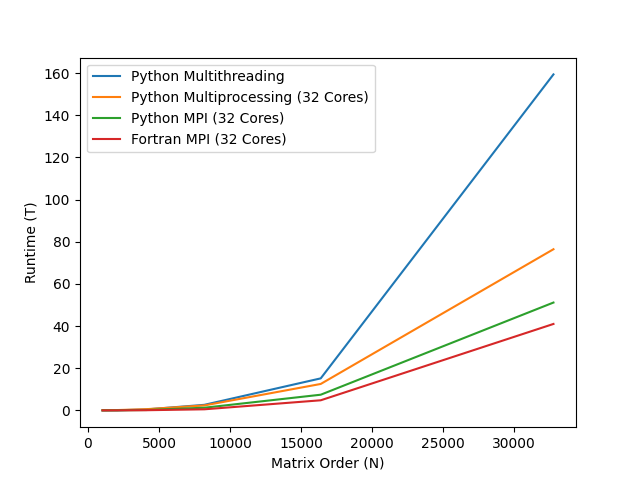
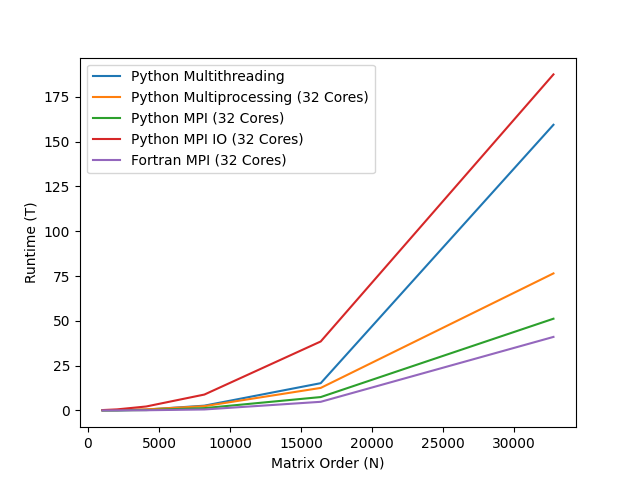
Updating README

diff --git a/TesterFiles/Libraries/CompareRuntimes.py b/TesterFiles/Libraries/CompareRuntimes.py
@@ -21,16 +21,12 @@ def read_fortran_times(path_name):
 
 
 def gen_plot(df,p):
-    #df = df.T
-    print(df.columns)
     df.plot()
     plt.xlabel("Matrix Order (N)")
     plt.ylabel("Runtime (T)")
     plt.legend()
-    #plt.gca().set_aspect('equal')
     p = Path.cwd()
-    #plt.show()
-    #plt.savefig(f"{p.parent.parent}\Figures\Libraries\Comparing_Parallel_Runtimes.png")
+    plt.savefig(f"{p.parent.parent}\Figures\Libraries\Comparing_Parallel_Runtimes.png")
 
 
 def calc_FLOPS(df):
@@ -51,12 +47,6 @@ def main():
     no_lock_df.columns = ["Python Multithreading"]
     print(f"no_lock_df: \n{no_lock_df}")
 
-    print("\n\n")
-    mpi_io_df = read_python_times(f"{p.parent}\MPI_IO/Time_dfs/total_df.pkl")
-    #mpi_io_df = mpi_io_df.drop(["Python dgemm (No Lock)","Numpy MatMul (No Lock)"],axis=1)
-    #mpi_io_df.columns = ["Python Multithreading"]
-    print(f"mpi_io_df: \n{mpi_io_df}")
-
     multiprocessing_df = read_python_times(f"{p.parent}\Multiprocessing/Lapack/Time_dfs/total_df.pkl")
     multiprocessing_df = multiprocessing_df.drop([1,2,4,8,16],axis=1)
     print(multiprocessing_df.columns)
@@ -69,6 +59,13 @@ def main():
     mpi_df.columns = ["Python MPI (32 Cores)"]
     print(f"mpi_df: \n{mpi_df}")
     total_df = total_df.join(mpi_df)
+
+    print("\n\n")
+    mpi_io_df = read_python_times(f"{p.parent}\MPI_IO/Time_dfs/total_df.pkl")
+    mpi_io_df = mpi_io_df.drop([1,2,4,8,16],axis=1)
+    mpi_io_df.columns = ["Python MPI IO (32 Cores)"]
+    print(f"mpi_io_df: \n{mpi_io_df}")
+    total_df = total_df.join(mpi_io_df)
     
     fortran_df = read_fortran_times(f"{p.parent}\Fortran/fortran_results.txt")
     fortran_df.columns = ["Fortran MPI (32 Cores)"]
@@ -77,10 +74,10 @@ def main():
 
     print(f"total_df: \n{total_df.to_string()}")
 
-    #gen_plot(total_df,p)
+    gen_plot(total_df,p)
 
-    #FLOPS_df = calc_FLOPS(total_df)
-    #print(FLOPS_df.to_string())
+    FLOPS_df = calc_FLOPS(total_df)
+    print(FLOPS_df.to_string())
 
 
 if __name__ == '__main__':

diff --git a/TesterFiles/MPI_IO/Gen_MPI_IO_graphs.py b/TesterFiles/MPI_IO/Gen_MPI_IO_graphs.py
@@ -33,11 +33,10 @@ def gen_plot(df,p,speedup,pkl_name):
         plt.ylabel("Normalised Runtime")
     plt.legend([f"N={i}" for i in df.columns])
     p = Path.cwd()
-    plt.show()
-    #if speedup:
-    #    plt.savefig(f"{p.parent.parent}\Figures\MPI_IO\MPI_IO_{pkl_name}_speedup.png")
-    #else:
-    #    plt.savefig(f"{p.parent.parent}\Figures\MPI_IO\MPI_IO_{pkl_name}_norm.png")
+    if speedup:
+        plt.savefig(f"{p.parent.parent}\Figures\MPI_IO\MPI_IO_{pkl_name}_speedup.png")
+    else:
+        plt.savefig(f"{p.parent.parent}\Figures\MPI_IO\MPI_IO_{pkl_name}_norm.png")
 
 
 def main():

diff --git a/README.md b/README.md
@@ -5,3 +5,5 @@ LearningFiles - These act of an archive of the different programming concepts th
 TesterFiles - This is where all of my timed Matrix Multiplicaiton and Monte Carlo tests exist. Moreover, all of the graph files are created here.
 
 Figures - All figures that I have generated and used in the report (excluding those taken from other source, which will be refernced in the report) will be generated in TesterFiles and saved automatically to here.
+
+ReportFiles - All of the files that are included in the report, either inserted throughout the report or in the appendices.
